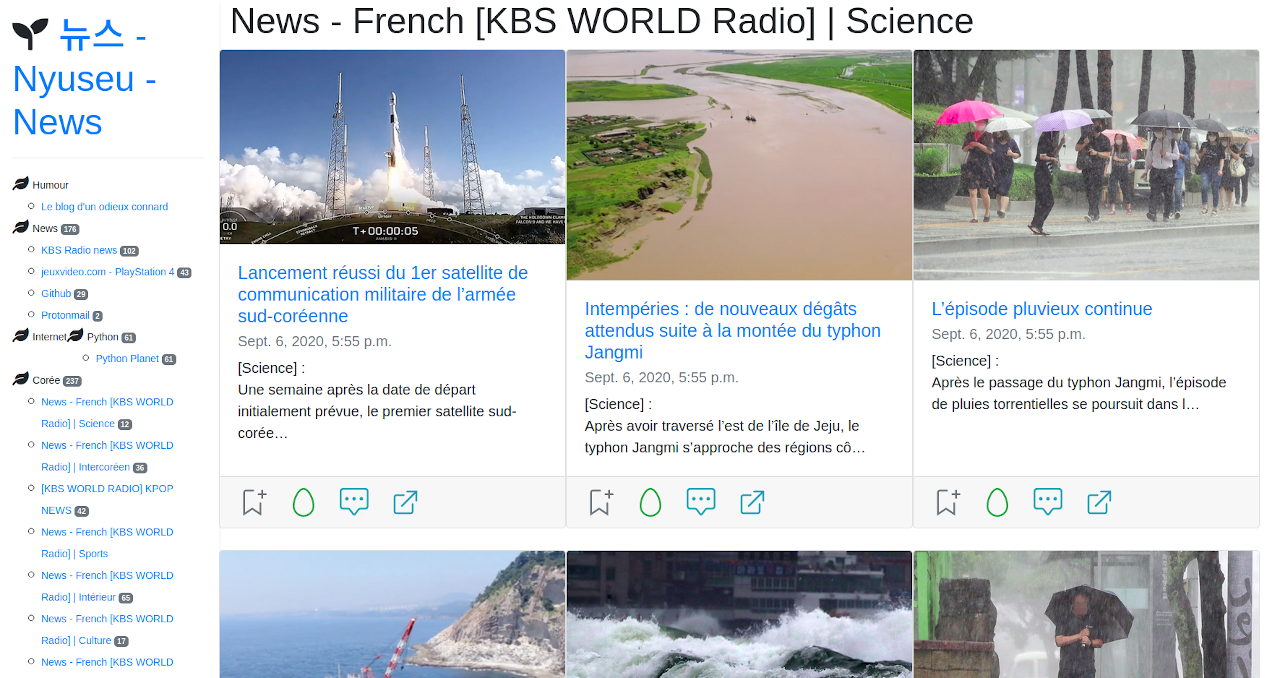
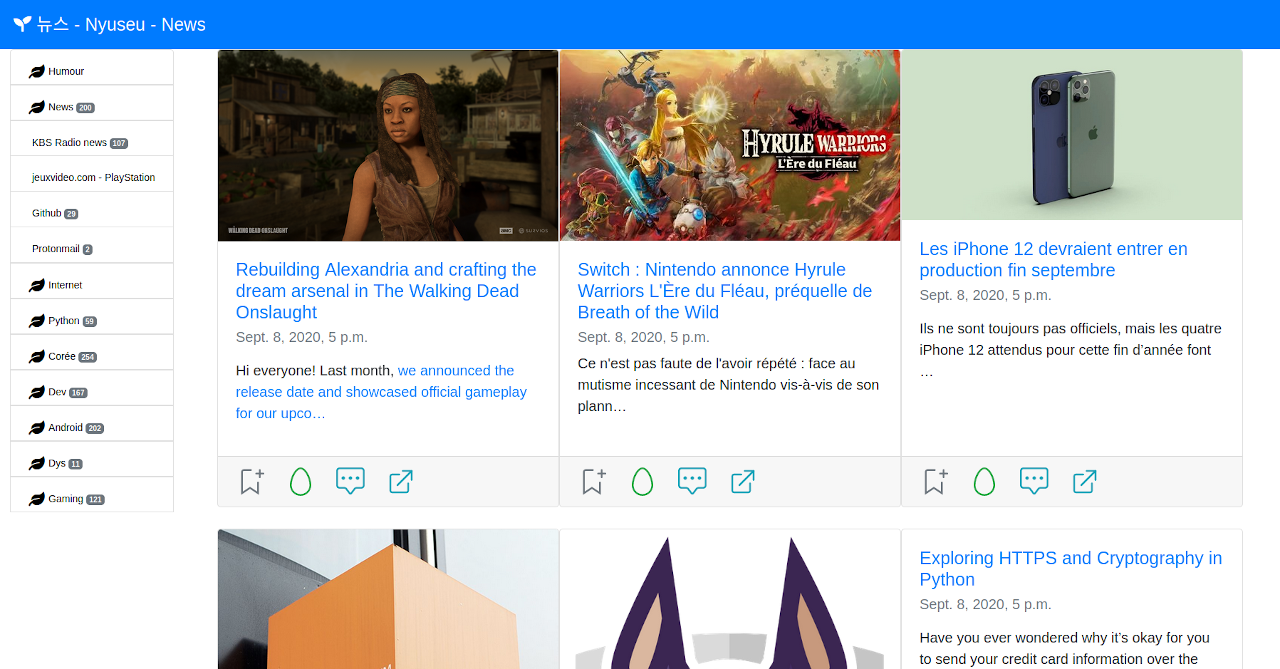
sidebar rendered

diff --git a/nyuseu/templates/menu_left.html b/nyuseu/templates/menu_left.html
@@ -1,21 +1,26 @@
-<div class="col-xs-2 col-md-2 col-lg-2 shadow-sm p-3 mb-5 rounded">
-    <h1>
-        <i class="fas fa-seedling"></i> <a href="{% url 'home' %}">뉴스 - Nyuseu - News</a>
-    </h1>
-    <hr>
-    <ul class="nav">
-    {% for line in folders %}
-        <li class="nav-item">
-        <i class="fas fa-leaf"></i>
-        <small>{{ line.title }} {% if line.unread > 0 %}<span class="badge badge-secondary">{{ line.unread }}</span>{% endif %}</small>
-          <ul class="nested">
+<!-- Sidebar -->
+<div class="col-xs-2 col-md-2 col-lg-2">
+    <div id="sidebar-container" class="sidebar-expanded d-none d-md-block">
+    <!-- Bootstrap List Group -->
+    <ul class="list-group">
+        {% for line in folders %}
+        <!-- Menu with submenu -->
+        <a href="#submenu{{ line.id }}" data-toggle="collapse" aria-expanded="false" class="list-group-item list-group-item-action flex-column align-items-start">
+            <div class="d-flex w-100 justify-content-start align-items-center">
+                <i class="fas fa-leaf"></i>&nbsp;
+                <small><span class="menu-collapsed">{{ line.title }} {% if line.unread > 0 %}<span class="badge badge-secondary">{{ line.unread }}</span>{% endif %}</span></small>
+            </div>
+        </a>
+        <!-- Submenu content -->
+        <div id='submenu{{ line.id }}' class="collapse sidebar-submenu">
             {% for feed in line.feeds_set.all %}
-              <li class="nav-item">
-                  <small><a href="{% url 'feeds' feed.id %}">{{ feed.title }}</a> {% if feed.articles_set.unreads.count > 0 %}<span class="badge badge-secondary">{{ feed.articles_set.unreads.count }}</span>{% endif %}</small>
-              </li>
+            <a href="{% url 'feeds' feed.id %}" class="list-group-item list-group-item-action">
+                <small><span class="menu-collapsed">{{ feed.title }}</span>
+                {% if feed.articles_set.unreads.count > 0 %}<span class="badge badge-secondary">{{ feed.articles_set.unreads.count }}</span>{% endif %}</small>
+            </a>
             {% endfor %}
-          </ul>
-        </li>
-    {% endfor %}
-    </ul>
+        </div>
+        {% endfor %}
+    </ul><!-- List Group END-->
+    </div><!-- sidebar-container END -->
 </div>

diff --git a/nyuseu/templates/base.html b/nyuseu/templates/base.html
@@ -1,3 +1,4 @@
+{% load static %}
 <!doctype html>
 <html lang="fr">
 <head>
@@ -8,11 +9,19 @@
                            integrity="sha384-JcKb8q3iqJ61gNV9KGb8thSsNjpSL0n8PARn9HuZOnIxN0hoP+VmmDGMN5t9UJ0Z" crossorigin="anonymous">
     <link rel="stylesheet" href="https://cdnjs.cloudflare.com/ajax/libs/font-awesome/5.14.0/css/all.min.css"/>
     <meta name="author" content="FoxMaSk">
-    <style>
-        small { font-size: 14px;}
-    </style>
+    <link rel="stylesheet" href="{% static 'nyuseu.css' %}" />
+
 </head>
 <body role="document">
+    <nav class="navbar navbar-expand-md navbar-dark bg-primary fixed-top sticky-top">
+        <button class="navbar-toggler navbar-toggler-right" type="button" data-toggle="collapse" data-target="#navbarNavDropdown" aria-controls="navbarNavDropdown" aria-expanded="false" aria-label="Toggle navigation">
+            <span class="navbar-toggler-icon"></span>
+        </button>
+        <a class="navbar-brand" href="/">
+            <i class="fas fa-seedling"></i>
+            <span class="menu-collapsed">뉴스 - Nyuseu - News</span>
+        </a>
+    </nav>
     <div class="container-fluid">
         <div class="row">
         {% include "menu_left.html" %}
@@ -36,5 +45,6 @@
             integrity="sha384-9/reFTGAW83EW2RDu2S0VKaIzap3H66lZH81PoYlFhbGU+6BZp6G7niu735Sk7lN" crossorigin="anonymous"></script>
     <script src="https://stackpath.bootstrapcdn.com/bootstrap/4.5.2/js/bootstrap.min.js"
             integrity="sha384-B4gt1jrGC7Jh4AgTPSdUtOBvfO8shuf57BaghqFfPlYxofvL8/KUEfYiJOMMV+rV" crossorigin="anonymous"></script>
+    <script src="{% static 'nyuseu.js' %}"></script>
 </body>
 </html>

diff --git a/nyuseu/static/nyuseu.css b/nyuseu/static/nyuseu.css
@@ -1,0 +1,45 @@
+small { font-size: 14px;}
+
+#sidebar-container {
+    min-height: 100vh;
+    background-color: #fff;
+    padding: 0;
+    position: fixed;
+}
+
+/* Sidebar sizes when expanded and expanded */
+.sidebar-expanded {
+    width: 230px;
+}
+.sidebar-collapsed {
+    width: 60px;
+}
+
+/* Menu item*/
+#sidebar-container .list-group a {
+    height: 50px;
+    color: #000;
+}
+
+/* Submenu item*/
+#sidebar-container .list-group .sidebar-submenu a {
+    height: 50px;
+    padding-left: 30px;
+}
+.sidebar-submenu {
+    font-size: 0.9rem;
+}
+
+/* Separators */
+.sidebar-separator-title {
+    background-color: #fff;
+    height: 35px;
+}
+.sidebar-separator {
+    background-color: #fff;
+    height: 25px;
+}
+.logo-separator {
+    background-color: #fff;
+    height: 60px;
+}

diff --git a/nyuseu/templates/nyuseu/messages.html b/nyuseu/templates/nyuseu/messages.html
@@ -1,14 +1,10 @@
-    {% if messages %}
-    <div role="alert" aria-live="assertive"
-         data-animation="true"
-         aria-atomic="true"
-         class="toast mt-auto ml-auto mr-auto mb-auto"
-         data-delay="6000"
-         data-autohide="true">
-      <div class="toast-body mt-auto ml-auto mr-auto mb-auto alert alert-success">
-        {% for message in messages %}
-        {{ message }}
-        {% endfor %}
-      </div>
-    </div>
-    {% endif %}
+{% if messages %}
+<div class="alert alert-primary" role="alert">
+{% for message in messages %}
+{{ message |safe }}
+{% endfor %}
+  <button type="button" class="close" data-dismiss="alert" aria-label="Close">
+    <span aria-hidden="true">&times;</span>
+  </button>
+</div>
+{% endif %}

diff --git a/nyuseu/static/nyuseu.js b/nyuseu/static/nyuseu.js
@@ -1,0 +1,6 @@
+function SidebarCollapse () {
+    $('.menu-collapsed').toggleClass('d-none');
+    $('.sidebar-submenu').toggleClass('d-none');
+    $('.submenu-icon').toggleClass('d-none');
+    $('#sidebar-container').toggleClass('sidebar-expanded sidebar-collapsed');
+}

diff --git a/nyuseu/views.py b/nyuseu/views.py
@@ -17,7 +17,7 @@ def marked_as_read(request, article_id):
     """
     Articles.objects.filter(id=article_id).update(read=True)
     article = Articles.objects.get(id=article_id)
-    messages.add_message(request, messages.INFO, 'Article marked as read')
+    messages.add_message(request, messages.INFO, 'Article marked as <strong>read</strong>')
     return HttpResponseRedirect(reverse('feeds', args=[article.feeds.id]))
 
 
@@ -27,7 +27,7 @@ def marked_as_unread(request, article_id):
     """
     Articles.objects.filter(id=article_id).update(read=False)
     article = Articles.objects.get(id=article_id)
-    messages.add_message(request, messages.INFO, 'Article marked as unread')
+    messages.add_message(request, messages.INFO, 'Article marked as <strong>unread</strong>')
     return HttpResponseRedirect(reverse('feeds', args=[article.feeds.id]))
 
 
@@ -37,7 +37,8 @@ def read_later(request, article_id):
     """
     Articles.objects.filter(id=article_id).update(read_later=True, read=True)
     article = Articles.objects.get(id=article_id)
-    messages.add_message(request, messages.INFO, 'Article added to the read later list')
+    messages.add_message(request, messages.INFO, 'Article <strong>added</strong> '
+                                                 'to the <i>read later</i> list')
     return HttpResponseRedirect(reverse('feeds', args=[article.feeds.id]))
 
 
@@ -47,7 +48,8 @@ def unread_later(request, article_id):
     """
     Articles.objects.filter(id=article_id).update(read_later=False, read=False)
     article = Articles.objects.get(id=article_id)
-    messages.add_message(request, messages.INFO, 'Article removed to the read later list')
+    messages.add_message(request, messages.INFO, 'Article <strong>removed</strong> '
+                                                 'to the <i>read later</i> list')
     return HttpResponseRedirect(reverse('feeds', args=[article.feeds.id]))
 
 

diff --git a/nyuseu/settings.py b/nyuseu/settings.py
@@ -129,7 +129,7 @@ USE_TZ = env.str('USE_TZ', default='Europe/London')
 # https://docs.djangoproject.com/en/3.1/howto/static-files/
 
 STATIC_URL = '/static/'
-STATIC_ROOT = str(ROOT_DIR) + '/static'
+STATIC_ROOT = str(ROOT_DIR) + '/static/'
 
 BYPASS_BOZO = env.bool('DEBUG', default=True)
 
